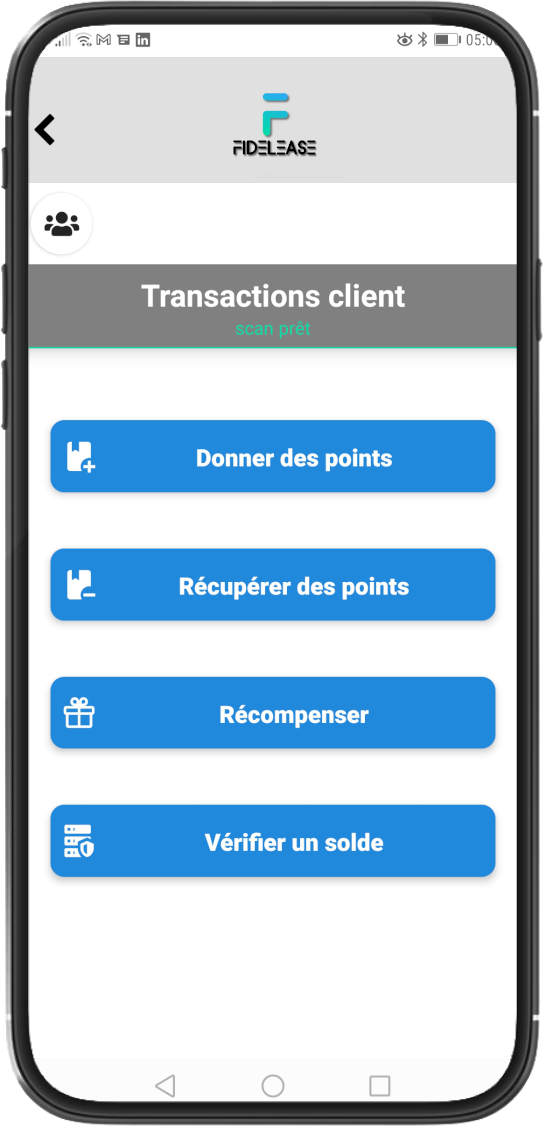
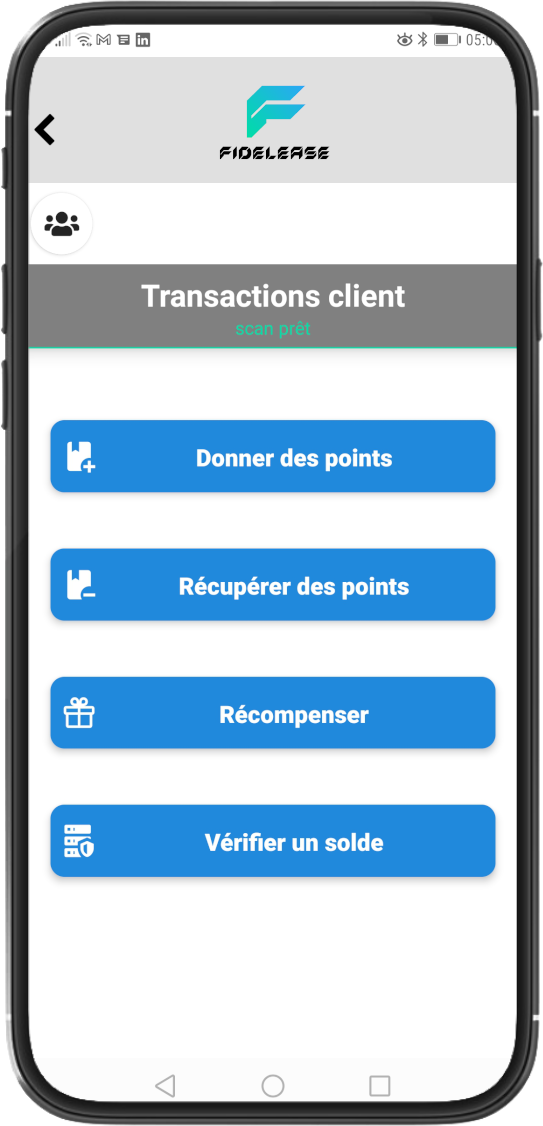
pro view v1 ok

Changed region(s): [[0.4125, 0.0622, 0.6188, 0.1554]]

diff --git a/src/ProsView.js b/src/ProsView.js
@@ -6,14 +6,17 @@ import { AiFillPieChart, AiOutlineNotification } from 'react-icons/ai';
 import { RiMoneyEuroCircleLine, RiTimerLine } from 'react-icons/ri';
 import { BiTransfer } from 'react-icons/bi';
 import { FaUsers } from 'react-icons/fa';
+import { TiInfoLargeOutline } from 'react-icons/ti';
 import mobileApp from './images/mobile_app.png';
 import fLogo from './images/squared_logo.png';
+import fText from './images/fidelease_text.png';
 import physicalCard from './images/physical_card_handed.png';
 import newOffer from './images/new_offer.png';
 import sticker from './images/sticker.png';
 import customerFile from './images/customer_view.png';
 import statisticsView from './images/statistics_view.png';
 import numStatsView from './images/num_statistics_view.png';
+import {TbCreditCardOff} from 'react-icons/tb';
 import txsView from './images/txs_view.png';
 
 
@@ -21,6 +24,7 @@ import txsView from './images/txs_view.png';
 
 import { secondary, section3 } from "./constants";
 import { smoothScroll } from './utils';
+import Button from "./Button";
 
 
 const Check = () => <BsCheckLg color={secondary} />
@@ -58,15 +62,19 @@ export default () => <div className="flex screensize">
             <span className="primary flex"> <img className="img-shadow" src={fLogo} style={{ width: '3vw', height: 'auto', objectFit: 'contain' }} /> FIDELEASE</span> 
             <span className="">Licence Professionelle</span>
         </div> */}
-        <div className='flex row allspace'>
+        <div className='flex row allwidth height95'>
             <Fade left>  
             
                 <div className='flex flexdot4 justifystart allheight'>
                     <div className='title flexdot3 text-shadow height90 justifystart'>
-                        <span className="primary flex"> <img className="img-shadow" src={fLogo} style={{ width: '5vw', height: 'auto', objectFit: 'contain' }} /> FIDELEASE</span> 
-                        <span className="">Licence Professionelle</span>
+                        <div className="flex"> 
+                            <img className="img-shadow" src={fLogo} style={{ width: '5vw', height: 'auto', objectFit: 'contain' }} /> 
+                            {/* FIDELEASE */}
+                            <img src={fText} style={{ width: '10vw', height: 'auto', objectFit: 'contain' }} />
+                        </div> 
+                        <span className="primary">Licence Professionelle</span>
                     </div>
-                    <div className="flex flexdot6">
+                    <div className="flex flexdot6" style={{marginTop: '7%'}}>
                         <img src={mobileApp} style={{ height: '50vh', width: 'auto', objectFit: 'contain', marginLeft: '-20%' }} />
                     </div>
                 </div>
@@ -99,6 +107,7 @@ export default () => <div className="flex screensize">
                                         { title: "Statistiques d'affluence", checks: [0,1], icon: <AiFillPieChart /> },
                                         { title: "Fichier clients", checks: [0,1], icon: <FaUsers /> },
                                         { title: "Point transférables", checks: [0,1], icon: <BiTransfer /> },
+                                        { title: "Cartes oubliées créditables", checks: [0,1], icon: <TbCreditCardOff /> },
                                         
                                     ].map((item, itemi) => <ItemRow 
                                         key={`prosview_item_${itemi}`} 
@@ -106,28 +115,40 @@ export default () => <div className="flex screensize">
                                     />)
                                 }
                             </div>
-                            <button className="app-button marged-t xlarge" onClick={() => smoothScroll(section3)}>Comment ça marche ?</button>
 
                         </div>
 
 
                     </div>
+
+
                 </div>
+                
             </Fade>
         
+        </div>
+        <div className="flex allwidth" style={{height: '5%'}}>
+            {/* <button  onClick={() => smoothScroll(section3)}>En savoir plus</button> */}
+            <Button
+                title="En savoir plus"
+                icon={<TiInfoLargeOutline />}
+                className="app-button marged-t xlarge"
+                onClick={() => smoothScroll(section3)}
+            />
         </div>
     </div>
 
     {/* SECTION 2 */}
     <div className='screensize flex justifystart' ref={section3} style={{background: '#404040', color: '#fff'}}>
-        <div className="marged-t">Comment ça marche ?</div>
+        {/* <div className="marged-t">Comment ça marche ?</div> */}
         <Fade right>
             <div className="flex row width95">
                 <div className="flex">
                     <div className="xxlarge bold underlined">Adoption clients</div> 
                     <div className="flex alignleft alignstart">
-                        <p>Invitez vos clients à télécharger l'application mobile en scannant le sticker disponible sur votre vitrine <i>(offert pour la souscription à une licence professionnelle)</i></p> 
-                        <p>Les plus récalcitrants pourront toujours profiter des cartes physiques uniques pré-imprimées avec la même utilisation qu'une carte classique à la différence que le client ne pourra pas transférer ses points à d'autres clients.</p> 
+                        <p>Invitez vos clients à télécharger l'application mobile en scannant le sticker disponible sur votre vitrine <i className="silver smaller">(offert pour la souscription à une licence professionnelle)</i></p> 
+                        <p>À l'ouverture de l'application, le client renseigne son adresse email et c'est tout... une carte de fidélité dématérialisée est automatiquement créé et vous pouvez tout de suite la créditer, même sans réseau internet !</p>
+                        <p>Les plus récalcitrants pourront toujours profiter des cartes physiques uniques pré-imprimées <i className="silver smaller">(offert pour la souscription à une licence professionnelle)</i>. L'utilisation reste la même qu'avec une carte classique à la différence que le client ne pourra pas transférer ses points à d'autres membres du réseau.</p> 
                         <p>Du point de vue du commerçant, le qr-code est scanné de la même manière qu'avec l'application.</p>
                     </div>
                 </div>
@@ -139,7 +160,7 @@ export default () => <div className="flex screensize">
             </div>
         </Fade>
         <Fade left>
-            <div className="flex row allwidth">
+            <div className="flex row width95">
                 <div className="flex">
                     <img className="img-shadow" src={newOffer} style={{ height: 'auto', width: '15vw', objectFit: 'contain' }} />
                 </div>
@@ -149,7 +170,7 @@ export default () => <div className="flex screensize">
                        <p>Le constat est sans appel, les offres de fidélité sont trop souvent similaires et limitées.</p>
                        <p> Avec Fidelease, vous vous démarquez en proposant des offres inédites à votre image. </p>
                        <p> D'un simple café à un week-end en famille en passant par une réduction pour un soir, tout est possible !</p>
-                       <p> Après seulement 30 secondes et 5 étapes de création, votre offre est instantanément communiquée à tous vos clients via une notification sur leur téléphone.</p>
+                       <p> En moins de 30 secondes et 5 étapes de création, votre offre est instantanément communiquée à tous vos clients via une notification sur leur téléphone.</p>
                        <p> La validité de l'offre étant paramétrable, mettre en place des opérations commerciales au sein de votre clientèle devient un jeu d'enfant !</p>
                     </div>
                 </div>
@@ -157,12 +178,14 @@ export default () => <div className="flex screensize">
         </Fade>
        
         <Fade right>
-            <div className="flex row allwidth">
+            <div className="flex row width95">
                
                 <div className="flex">
                     <div className="xxlarge bold underlined">Fichier client</div> 
-                    <div>
-                        
+                    <div className="flex alignleft alignstart">
+                        <p>Vos clients fidélisés sont réunis dans une même liste.</p> 
+                        <p>Une section de recherche vous permet de retrouver rapidement les informations relatives à un client et même de réaliser une transaction sans avoir à scanner son QR-Code.</p>
+                        <p>La fiche du client contient des options de contact permettant de l'appeler et de lui envoyer un sms ou un email en un seul click</p>
                     </div>
                 </div>
 
@@ -174,7 +197,7 @@ export default () => <div className="flex screensize">
             </div>
         </Fade>
         <Fade left>
-            <div className="flex row allwidth">
+            <div className="flex row width95">
                 <div className="flex row">
                     <img className="img-shadow" src={statisticsView} style={{ height: 'auto', width: '15vw', objectFit: 'contain' }} />
                     &nbsp;
@@ -183,8 +206,18 @@ export default () => <div className="flex screensize">
 
                 <div className="flex">
                     <div className="xxlarge bold underlined">Statistiques</div> 
-                    <div>
-                        
+                    <div className="flex alignleft alignstart">
+                        <p>Les statistiques sont des données qui vont devenir précieuses à vos yeux !</p>
+                        <p>La numérisation de vos passages clients et du soldes de leurs points, combinée avec la valeur de vos offres permet un fantastique cocktail de datas s'avérant utile à l'exploitation de votre commerce.</p>
+                        <p>
+                            Le calcul de l'affluence permet d'avoir une idée de la fréquentation de votre établissement sur une période donnée par rapport à votre moyenne caclulée sur le total de votre activité.
+                        </p>
+                        <p>
+                            Vous trouvez la soirée un peu calme par rapport à l'accoutumé ? Consultez Fidelease, confirmez votre observation via les statistiques et agissez ! Ajoutez une offre temporaire alléchante, vos clients sont immédiatement informé...
+                            <br />
+                            Bravo ! Vous venez de sauver votre soirée !
+                                
+                        </p>
                     </div>
                 </div>
                 

diff --git a/src/Button.js b/src/Button.js
@@ -1,0 +1,34 @@
+export default props => {
+
+    const {
+        title,
+        onClick,
+        inverted,   // anthracite bg, white txt (iso default white bg, anthracite text)
+        link,       // simple version showed as text
+        className,
+        active,     // distribute the active-button class
+        buttonStyle,
+        icon
+    } = props||{};
+
+    const buttonProps = {
+        //className: `app-button ${inverted ? ' inverted-button' : ''}${link ? ' link-button' : ''}${className ? ` ${className}` : ''}${active ? ` active-button` : ''}`,
+        className: `${link ? 'link-button' : 'app-button'}${className ? ` ${className}` : ''}${active ? ` active-button` : ''}${inverted ? ' inverted-button' : ''}`,  /// TODO ! (App.scss)
+        ...( typeof onClick === 'function' ? { onClick } : {} ),
+        style: {...( buttonStyle || {} )}
+    }
+
+    return (
+        <button {...buttonProps}>
+            <div className="button-container flex row">
+                <span className="allwidth">{ title }</span>
+                
+                {
+                    icon
+                    ? <>&nbsp;{icon}</>
+                    : null
+                }
+            </div>
+        </button>
+    )
+}

diff --git a/src/App.css b/src/App.css
@@ -167,6 +167,14 @@ textarea:focus, input:focus{
   color: #2aa8f4
 }
 
+.secondary-filled {
+  fill: #00dca8
+}
+
+.primary-filled {
+  fill: #2aa8f4
+}
+
 .bordered {
   border: 1px #00dca8 solid;
   border-radius: 10px;
@@ -253,6 +261,10 @@ textarea:focus, input:focus{
 }
 .height90 {
   height: 90%;
+}
+
+.height95 {
+  height: 95%;
 }
 .hoverscale {
   transition: all ease .5s;
